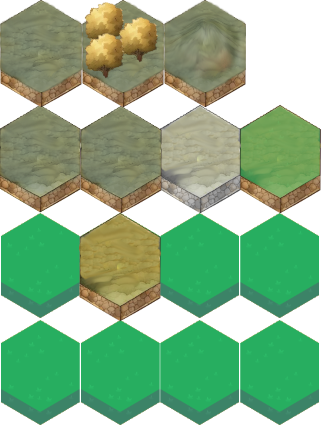
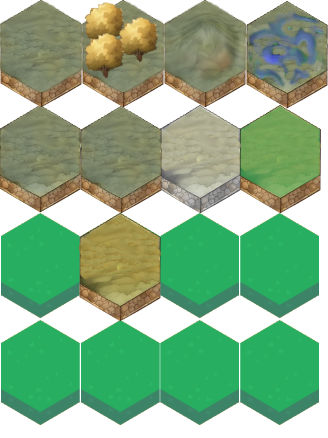
feat: add swamp terrain type

Changed region(s): [[0.7317, 0.0, 1.0, 0.2671]]

diff --git a/src/battle.ts b/src/battle.ts
@@ -172,7 +172,7 @@ export class Battle {
 
   static generateRandomTerrain(matrix: number[][], mapWidth: number, mapHeight: number): void {
     // Set-up the weights for the terrain types
-    const weights: number[] = [5, 1, 1, 0, 0];
+    const weights: number[] = [10, 2, 2, 1, 0];
     const terrain_type_limits: number[] = weights.map(
       (value, index) => {
         return value + weights.reduce((x, y, i) => i < index ? x + y : x, 0);
